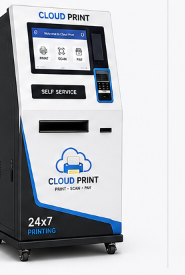
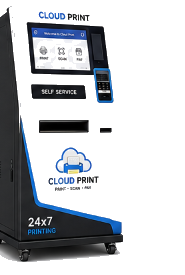
style: convert kiosk images to transparent PNG cutouts and add smooth Framer Motion rotation pinning

diff --git a/src/pages/Landing.jsx b/src/pages/Landing.jsx
@@ -2354,111 +2354,137 @@ function ScrollSteps3D({ steps }) {
         ))}
       </div>
 
-      <div>
-        {/* Desktop: sticky 3D kiosk/upload photo showcase */}
-        <div className="hidden lg:flex sticky top-28 h-[460px] items-center justify-center">
-          <div className="relative w-[300px] h-[450px] rounded-[24px] overflow-hidden border border-white/10 shadow-2xl transition-all duration-500 bg-slate-950">
-            {activeStep === 0 && (
-              <>
-                <img 
-                  src={kiosk0} 
-                  alt="CloudPrint Kiosk 0" 
-                  className="w-full h-full object-contain" 
-                />
-                <div className="absolute top-[16.5%] left-[35.5%] w-[32%] h-[11%] bg-black flex flex-col items-center justify-center p-1 text-center select-none border border-blue-500/20 rounded-[2px]">
-                  <div className="text-[10px] mb-0.5">{steps[0].icon}</div>
-                  <p className="text-[5px] font-black text-blue-400 tracking-wider uppercase truncate max-w-full">{steps[0].phoneLabel}</p>
-                </div>
-              </>
-            )}
-            {activeStep === 1 && (
-              <>
-                <img 
-                  src={kiosk45} 
-                  alt="CloudPrint Kiosk 45" 
-                  className="w-full h-full object-contain" 
-                />
-                <div className="absolute top-[16.5%] left-[33.5%] w-[26%] h-[11%] bg-black flex flex-col items-center justify-center p-1 text-center select-none border border-blue-500/20 rounded-[2px]" style={{ transform: "skewY(-2deg)" }}>
-                  <div className="text-[10px] mb-0.5">{steps[1].icon}</div>
-                  <p className="text-[5px] font-black text-blue-400 tracking-wider uppercase truncate max-w-full">{steps[1].phoneLabel}</p>
-                </div>
-              </>
-            )}
-            {activeStep === 2 && (
-              <img 
-                src={kiosk90} 
-                alt="CloudPrint Kiosk 90" 
-                className="w-full h-full object-contain" 
-              />
-            )}
-            {activeStep === 3 && (
-              <>
-                <img 
-                  src={kiosk315} 
-                  alt="CloudPrint Kiosk 315" 
-                  className="w-full h-full object-contain" 
-                />
-                <div className="absolute top-[16.5%] left-[40.5%] w-[26%] h-[11%] bg-black flex flex-col items-center justify-center p-1 text-center select-none border border-blue-500/20 rounded-[2px]" style={{ transform: "skewY(2deg)" }}>
-                  <div className="text-[10px] mb-0.5">{steps[3].icon}</div>
-                  <p className="text-[5px] font-black text-blue-400 tracking-wider uppercase truncate max-w-full">{steps[3].phoneLabel}</p>
-                </div>
-              </>
-            )}
+      <div className="h-full">
+        {/* Desktop: sticky 3D transparent PNG kiosk showcase */}
+        <div className="hidden lg:flex sticky top-28 h-[480px] items-center justify-center">
+          <div className="relative w-[320px] h-[460px] flex items-center justify-center">
+            {/* Soft Ambient Glow under kiosk */}
+            <div className="absolute inset-x-8 bottom-6 h-12 bg-blue-500/20 rounded-full blur-2xl pointer-events-none" />
+
+            <AnimatePresence mode="wait">
+              <motion.div
+                key={activeStep}
+                initial={{ opacity: 0, scale: 0.92, rotateY: -20 }}
+                animate={{ opacity: 1, scale: 1, rotateY: 0 }}
+                exit={{ opacity: 0, scale: 0.92, rotateY: 20 }}
+                transition={{ duration: 0.45, ease: [0.23, 1, 0.32, 1] }}
+                className="relative w-full h-full flex items-center justify-center"
+                style={{ transformStyle: "preserve-3d" }}
+              >
+                {activeStep === 0 && (
+                  <>
+                    <img 
+                      src={kiosk0} 
+                      alt="CloudPrint Kiosk 0" 
+                      className="w-full h-full object-contain filter drop-shadow-[0_20px_35px_rgba(0,0,0,0.7)]" 
+                    />
+                    <div className="absolute top-[16.5%] left-[35.5%] w-[32%] h-[11%] bg-black/90 flex flex-col items-center justify-center p-1 text-center select-none border border-blue-500/30 rounded-[2px] shadow-inner">
+                      <div className="text-[10px] mb-0.5">{steps[0].icon}</div>
+                      <p className="text-[5px] font-black text-blue-400 tracking-wider uppercase truncate max-w-full">{steps[0].phoneLabel}</p>
+                    </div>
+                  </>
+                )}
+                {activeStep === 1 && (
+                  <>
+                    <img 
+                      src={kiosk45} 
+                      alt="CloudPrint Kiosk 45" 
+                      className="w-full h-full object-contain filter drop-shadow-[0_20px_35px_rgba(0,0,0,0.7)]" 
+                    />
+                    <div className="absolute top-[16.5%] left-[33.5%] w-[26%] h-[11%] bg-black/90 flex flex-col items-center justify-center p-1 text-center select-none border border-blue-500/30 rounded-[2px] shadow-inner" style={{ transform: "skewY(-2deg)" }}>
+                      <div className="text-[10px] mb-0.5">{steps[1].icon}</div>
+                      <p className="text-[5px] font-black text-blue-400 tracking-wider uppercase truncate max-w-full">{steps[1].phoneLabel}</p>
+                    </div>
+                  </>
+                )}
+                {activeStep === 2 && (
+                  <img 
+                    src={kiosk90} 
+                    alt="CloudPrint Kiosk 90" 
+                    className="w-full h-full object-contain filter drop-shadow-[0_20px_35px_rgba(0,0,0,0.7)]" 
+                  />
+                )}
+                {activeStep === 3 && (
+                  <>
+                    <img 
+                      src={kiosk315} 
+                      alt="CloudPrint Kiosk 315" 
+                      className="w-full h-full object-contain filter drop-shadow-[0_20px_35px_rgba(0,0,0,0.7)]" 
+                    />
+                    <div className="absolute top-[16.5%] left-[40.5%] w-[26%] h-[11%] bg-black/90 flex flex-col items-center justify-center p-1 text-center select-none border border-blue-500/30 rounded-[2px] shadow-inner" style={{ transform: "skewY(2deg)" }}>
+                      <div className="text-[10px] mb-0.5">{steps[3].icon}</div>
+                      <p className="text-[5px] font-black text-blue-400 tracking-wider uppercase truncate max-w-full">{steps[3].phoneLabel}</p>
+                    </div>
+                  </>
+                )}
+              </motion.div>
+            </AnimatePresence>
           </div>
         </div>
 
-        {/* Mobile: compact tiltable kiosk/upload photo card */}
+        {/* Mobile: compact tiltable kiosk photo card */}
         <div className="lg:hidden mt-2 mb-10">
           <TiltCard
-            className="w-full max-w-[260px] h-[390px] rounded-[24px] overflow-hidden border border-white/10 shadow-2xl mx-auto relative transition-all duration-500 bg-slate-950"
+            className="w-full max-w-[260px] h-[390px] rounded-[24px] overflow-hidden border border-white/10 shadow-2xl mx-auto relative transition-all duration-500 bg-slate-950/60 backdrop-blur-md"
             tiltOptions={{ maxTilt: 10, scale: 1.02 }}
           >
-            {activeStep === 0 && (
-              <>
-                <img 
-                  src={kiosk0} 
-                  alt="CloudPrint Kiosk 0" 
-                  className="w-full h-full object-contain" 
-                />
-                <div className="absolute top-[16.5%] left-[35.5%] w-[32%] h-[11%] bg-black flex flex-col items-center justify-center p-1 text-center select-none border border-blue-500/20 rounded-[2px]">
-                  <div className="text-[8px] mb-0.5">{steps[0].icon}</div>
-                  <p className="text-[4px] font-black text-blue-400 tracking-wider uppercase truncate max-w-full">{steps[0].phoneLabel}</p>
-                </div>
-              </>
-            )}
-            {activeStep === 1 && (
-              <>
-                <img 
-                  src={kiosk45} 
-                  alt="CloudPrint Kiosk 45" 
-                  className="w-full h-full object-contain" 
-                />
-                <div className="absolute top-[16.5%] left-[33.5%] w-[26%] h-[11%] bg-black flex flex-col items-center justify-center p-1 text-center select-none border border-blue-500/20 rounded-[2px]" style={{ transform: "skewY(-2deg)" }}>
-                  <div className="text-[8px] mb-0.5">{steps[1].icon}</div>
-                  <p className="text-[4px] font-black text-blue-400 tracking-wider uppercase truncate max-w-full">{steps[1].phoneLabel}</p>
-                </div>
-              </>
-            )}
-            {activeStep === 2 && (
-              <img 
-                src={kiosk90} 
-                alt="CloudPrint Kiosk 90" 
-                className="w-full h-full object-contain" 
-              />
-            )}
-            {activeStep === 3 && (
-              <>
-                <img 
-                  src={kiosk315} 
-                  alt="CloudPrint Kiosk 315" 
-                  className="w-full h-full object-contain" 
-                />
-                <div className="absolute top-[16.5%] left-[40.5%] w-[26%] h-[11%] bg-black flex flex-col items-center justify-center p-1 text-center select-none border border-blue-500/20 rounded-[2px]" style={{ transform: "skewY(2deg)" }}>
-                  <div className="text-[8px] mb-0.5">{steps[3].icon}</div>
-                  <p className="text-[4px] font-black text-blue-400 tracking-wider uppercase truncate max-w-full">{steps[3].phoneLabel}</p>
-                </div>
-              </>
-            )}
+            <AnimatePresence mode="wait">
+              <motion.div
+                key={activeStep}
+                initial={{ opacity: 0, scale: 0.95 }}
+                animate={{ opacity: 1, scale: 1 }}
+                exit={{ opacity: 0, scale: 0.95 }}
+                transition={{ duration: 0.3 }}
+                className="w-full h-full relative"
+              >
+                {activeStep === 0 && (
+                  <>
+                    <img 
+                      src={kiosk0} 
+                      alt="CloudPrint Kiosk 0" 
+                      className="w-full h-full object-contain" 
+                    />
+                    <div className="absolute top-[16.5%] left-[35.5%] w-[32%] h-[11%] bg-black flex flex-col items-center justify-center p-1 text-center select-none border border-blue-500/20 rounded-[2px]">
+                      <div className="text-[8px] mb-0.5">{steps[0].icon}</div>
+                      <p className="text-[4px] font-black text-blue-400 tracking-wider uppercase truncate max-w-full">{steps[0].phoneLabel}</p>
+                    </div>
+                  </>
+                )}
+                {activeStep === 1 && (
+                  <>
+                    <img 
+                      src={kiosk45} 
+                      alt="CloudPrint Kiosk 45" 
+                      className="w-full h-full object-contain" 
+                    />
+                    <div className="absolute top-[16.5%] left-[33.5%] w-[26%] h-[11%] bg-black flex flex-col items-center justify-center p-1 text-center select-none border border-blue-500/20 rounded-[2px]" style={{ transform: "skewY(-2deg)" }}>
+                      <div className="text-[8px] mb-0.5">{steps[1].icon}</div>
+                      <p className="text-[4px] font-black text-blue-400 tracking-wider uppercase truncate max-w-full">{steps[1].phoneLabel}</p>
+                    </div>
+                  </>
+                )}
+                {activeStep === 2 && (
+                  <img 
+                    src={kiosk90} 
+                    alt="CloudPrint Kiosk 90" 
+                    className="w-full h-full object-contain" 
+                  />
+                )}
+                {activeStep === 3 && (
+                  <>
+                    <img 
+                      src={kiosk315} 
+                      alt="CloudPrint Kiosk 315" 
+                      className="w-full h-full object-contain" 
+                    />
+                    <div className="absolute top-[16.5%] left-[40.5%] w-[26%] h-[11%] bg-black flex flex-col items-center justify-center p-1 text-center select-none border border-blue-500/20 rounded-[2px]" style={{ transform: "skewY(2deg)" }}>
+                      <div className="text-[8px] mb-0.5">{steps[3].icon}</div>
+                      <p className="text-[4px] font-black text-blue-400 tracking-wider uppercase truncate max-w-full">{steps[3].phoneLabel}</p>
+                    </div>
+                  </>
+                )}
+              </motion.div>
+            </AnimatePresence>
           </TiltCard>
         </div>
       </div>
